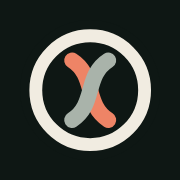
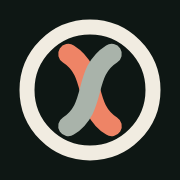
Вкладка: нова іконка і назва Klitynka в <title>

diff --git a/src/data/home.ts b/src/data/home.ts
@@ -6,7 +6,7 @@
  * власника). Тексти з позначкою ВИГАДАНО не використано. Правило формулювань: без «для каналу» як умови.
  */
 
-import { DEPLOY_TIME, PRICING, STARS_COMMISSION } from './site';
+import { BRAND_EN, DEPLOY_TIME, PRICING, STARS_COMMISSION } from './site';
 import { textNumber } from './business';
 import { pluralGames } from '@/lib/format';
 
@@ -68,7 +68,7 @@ export const HOME = {
   },
   meta: {
     /** <title> до 60 символів: основний запит «гра в Telegram під ключ» і Telegram Stars (docs/SEO-PLAN.md). */
-    title: 'Клітинка — ігри в Telegram під ключ, оплата Telegram Stars',
+    title: `${BRAND_EN} — ігри в Telegram під ключ, оплата Telegram Stars`,
     ogTitle: 'Гра у вашому Telegram, зірки на вашому рахунку',
     /** До 160 символів. */
     description: `Готова гра Telegram Mini App під вашою назвою: гравці платять Telegram Stars, зірки йдуть на баланс вашого бота. Запуск ${textNumber(PRICING.launchUah)}\u00A0₴, ${textNumber(PRICING.monthlyUah)}\u00A0₴/міс, ${STARS_COMMISSION}% зі зірок.`,

diff --git a/src/views/game.ts b/src/views/game.ts
@@ -10,7 +10,7 @@
 
 import type { View } from './view';
 import type { Game } from '@/types';
-import { BRAND, TELEGRAM_URL } from '@/data/site';
+import { BRAND_EN, TELEGRAM_URL } from '@/data/site';
 import { CATALOG, GAME_PAGE } from '@/data/pages';
 import { OFFERINGS } from '@/data/business';
 import { GENRE_LABELS } from '@/data/genres';
@@ -187,7 +187,7 @@ export function gameView(g: Game): View {
     key: `game:${g.id}`,
     navTone: 'dark',
     meta: {
-      title: live && g.searchTitle ? g.searchTitle : `${live ? m.liveTitle(g.name, GENRE_LABELS[g.dna.genre]) : m.soonTitle(g.name)} — ${BRAND}`,
+      title: live && g.searchTitle ? g.searchTitle : `${live ? m.liveTitle(g.name, GENRE_LABELS[g.dna.genre]) : m.soonTitle(g.name)} — ${BRAND_EN}`,
       ogTitle: live ? m.liveOg(g.name) : m.soonOg(g.name),
       description: live ? m.liveDescription(g.tagline) : m.soonDescription(g.tagline),
       ogImage: g.ogImage ?? `/og/${g.id}.png`,

diff --git a/vite.config.ts b/vite.config.ts
@@ -2,7 +2,7 @@ import { defineConfig, createServer, loadEnv, type Plugin, type ResolvedConfig }
 import { fileURLToPath, URL } from 'node:url';
 import fs from 'node:fs';
 import path from 'node:path';
-import { BRAND, BRAND_LINE, DEFAULT_SITE_URL } from './src/data/brand.ts';
+import { BRAND, BRAND_EN, BRAND_LINE, DEFAULT_SITE_URL } from './src/data/brand.ts';
 
 const SRC = fileURLToPath(new URL('./src', import.meta.url));
 
@@ -20,6 +20,7 @@ function brandHtml(): Plugin {
       handler: (html) =>
         html
           .replaceAll('%BRAND_LINE%', BRAND_LINE)
+          .replaceAll('%BRAND_EN%', BRAND_EN)
           .replaceAll('%BRAND%', BRAND)
           .replaceAll('%SITE_HOST%', new URL(siteUrl).host)
           .replaceAll('%VITE_SITE_URL%', siteUrl),

diff --git a/src/views/notFound.ts b/src/views/notFound.ts
@@ -1,7 +1,7 @@
 /** 404 за макетом «ДНК» (page-49…52): «зламана» спіраль, заголовок, дві дії. Тексти — src/data/pages.ts. */
 
 import type { View } from './view';
-import { BRAND } from '@/data/site';
+import { BRAND_EN } from '@/data/site';
 import { NOT_FOUND } from '@/data/pages';
 import { html } from '@/lib/dom';
 import { href } from '@/router';
@@ -14,7 +14,7 @@ export function notFoundView(path = '/404'): View {
     key: 'notFound',
     navTone: 'dark',
     meta: {
-      title: `${NOT_FOUND.title} — ${BRAND}`,
+      title: `${NOT_FOUND.title} — ${BRAND_EN}`,
       description: NOT_FOUND.meta.description,
       ogImage: '/og/default.png',
       path,

diff --git a/src/data/brand.ts b/src/data/brand.ts
@@ -7,6 +7,9 @@ export const BRAND = 'Клітинка';
 /** Родовий відмінок назви для юридичних текстів («у боті Клітинки»). Змінюєте BRAND — змініть і це. */
 export const BRAND_OF = 'Клітинки';
 
+/** Назва латиницею: лише для <title> (вкладка браузера, результати пошуку). У шапці, футері й текстах лишається BRAND. */
+export const BRAND_EN = 'Klitynka';
+
 /** Адреса сайту, якщо VITE_SITE_URL не задано. Для canonical, og:url, og:image, sitemap і robots. */
 export const DEFAULT_SITE_URL = 'https://klitynka.online';
 

diff --git a/src/views/games.ts b/src/views/games.ts
@@ -7,7 +7,7 @@
 
 import type { View } from './view';
 import type { Game, GenreId } from '@/types';
-import { BRAND, TELEGRAM_URL } from '@/data/site';
+import { BRAND_EN, TELEGRAM_URL } from '@/data/site';
 import { CATALOG } from '@/data/pages';
 import { HOME } from '@/data/home';
 import { GENRE_LABELS } from '@/data/genres';
@@ -80,7 +80,7 @@ export function gamesView(morphId?: string): View {
     key: 'games',
     navTone: 'dark',
     meta: {
-      title: `${CATALOG.meta.title} — ${BRAND}`,
+      title: `${CATALOG.meta.title} — ${BRAND_EN}`,
       ogTitle: CATALOG.meta.ogTitle,
       description: CATALOG.meta.description(liveCount(), soonCount()),
       ogImage: '/og/default.png',

diff --git a/index.html b/index.html
@@ -5,10 +5,11 @@
     <meta name="viewport" content="width=device-width, initial-scale=1, viewport-fit=cover" />
     <meta name="color-scheme" content="dark" />
     <meta name="theme-color" content="#0e1714" />
-    <title>%BRAND%</title>
+    <title>%BRAND_EN%</title>
     <meta name="description" content="" />
     <link rel="canonical" href="%VITE_SITE_URL%/" />
     <!--page-meta-->
+    <link rel="icon" href="/favicon.ico" sizes="48x48" />
     <link rel="icon" type="image/svg+xml" href="/favicon.svg" />
     <link rel="icon" type="image/png" sizes="32x32" href="/favicon-32.png" />
     <link rel="apple-touch-icon" href="/apple-touch-icon.png" />

diff --git a/src/views/legal.ts b/src/views/legal.ts
@@ -5,7 +5,7 @@
  */
 
 import type { View } from './view';
-import { BRAND } from '@/data/site';
+import { BRAND_EN } from '@/data/site';
 import { getLegal, type LegalId } from '@/data/legal';
 import { LEGAL_PAGE } from '@/data/pages';
 import { html, raw } from '@/lib/dom';
@@ -43,7 +43,7 @@ export function legalView(id: LegalId): View {
     key: `legal:${id}`,
     navTone: 'dark',
     meta: {
-      title: `${doc.title} — ${BRAND}`,
+      title: `${doc.title} — ${BRAND_EN}`,
       ogTitle: doc.title,
       description: doc.description,
       ogImage: '/og/default.png',

diff --git a/src/data/site.ts b/src/data/site.ts
@@ -7,7 +7,7 @@ import type { MarketRates } from '@/types';
 
 import { DEFAULT_SITE_URL } from './brand';
 
-export { BRAND, BRAND_OF, BRAND_LINE, DEFAULT_SITE_URL } from './brand';
+export { BRAND, BRAND_EN, BRAND_OF, BRAND_LINE, DEFAULT_SITE_URL } from './brand';
 
 /** Контакт для продажів. Налаштовується в `.env` → VITE_TELEGRAM_URL. */
 export const TELEGRAM_URL: string = import.meta.env.VITE_TELEGRAM_URL || 'https://t.me/your_username';
